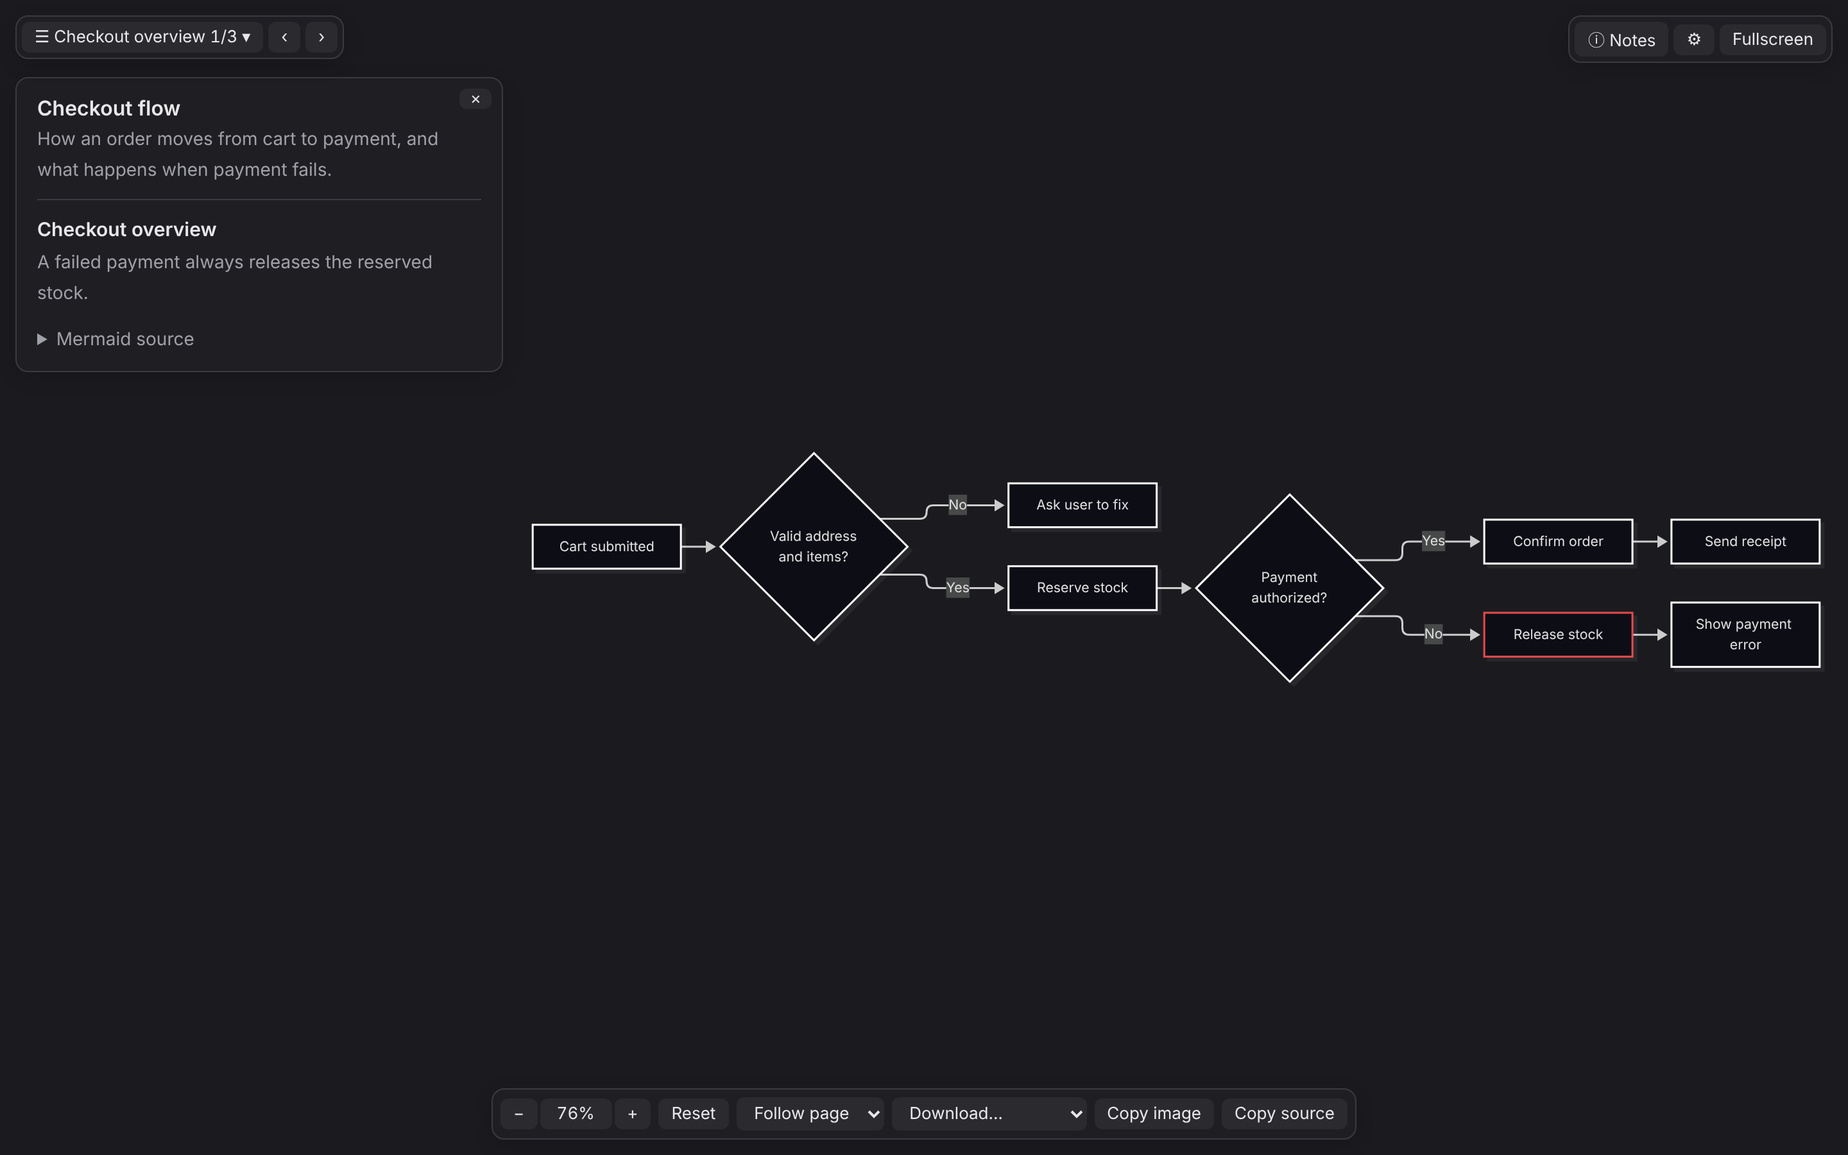
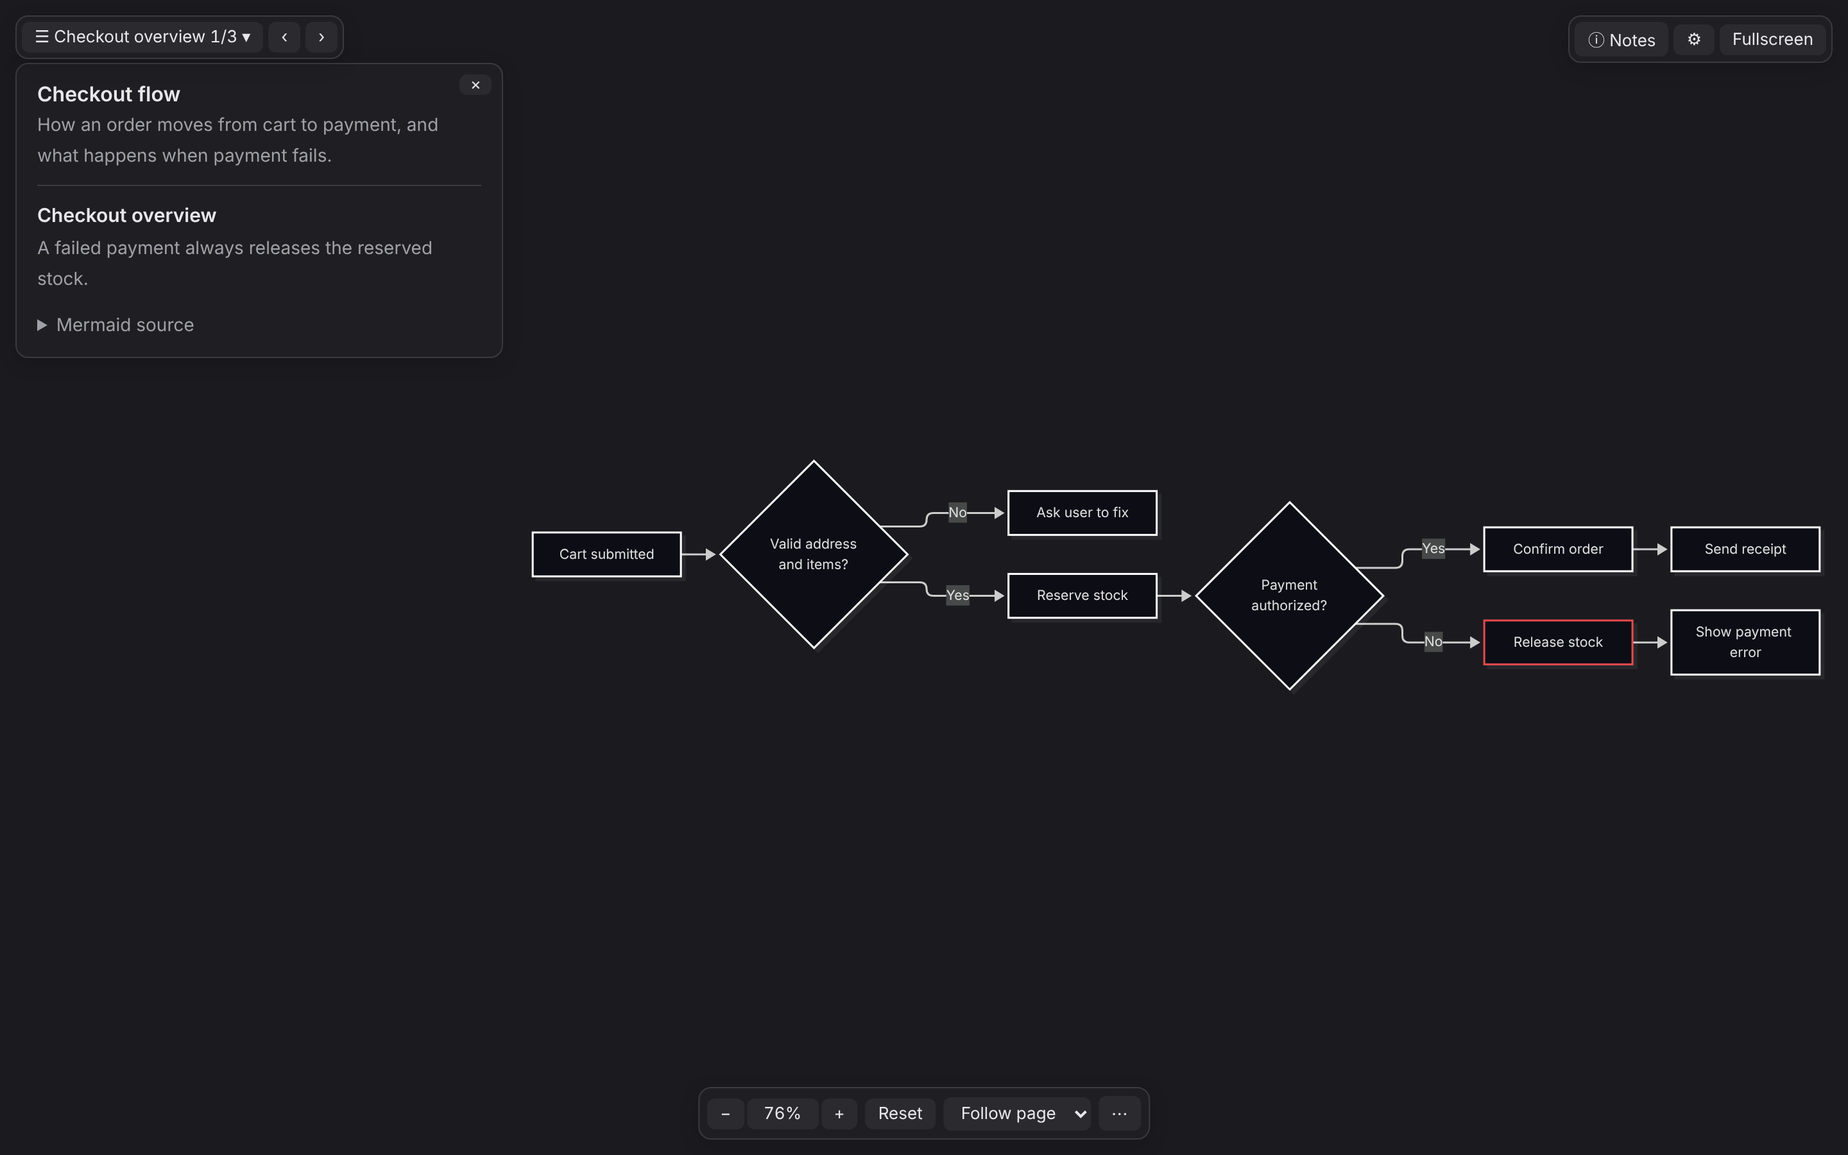
調整下載與複製動作收進工具列的 ⋯ 選單，並修正含 <br> 標籤時的匯出
- 下載 SVG／PNG／JPEG／WebP、複製圖片與複製原始碼改為 ⋯ 選單項目，支援方向鍵
- 操作結果改以提示訊息顯示，同時供螢幕閱讀器讀出
- 從 DOM 序列化 SVG，修正標籤含 <br> 時匯出失敗與 SVG 不是合法 XML
- 更新 README 截圖

Claude-Session: https://claude.ai/code/session_01RE5uL88XU2QJ1ruxZWgEpo

diff --git a/skills/diagram-first/templates/diagram.html b/skills/diagram-first/templates/diagram.html
@@ -23,7 +23,7 @@
   - 左上：目錄（依各圖 <h2> 產生）。兩張圖以上時可用下拉清單、‹ ›、鍵盤 ←／→ 切換，網址同步為 #diagram-N。
   - 右上：說明視窗開關、⚙ 設定（模式、方向、Theme，存在 localStorage）、全螢幕（瀏覽器不支援時不顯示）。
   - 說明視窗：頁面標題、摘要，以及目前這張圖的標題、一句話結論、圖例與原始碼；開關狀態存在 localStorage。
-  - 下方工具列：縮放、重設（符合視窗）、個別方向、下載 SVG／PNG／JPEG／WebP、複製圖片與原始碼。
+  - 下方工具列：縮放、重設（符合視窗）、個別方向；⋯ 選單內有下載 SVG／PNG／JPEG／WebP、複製圖片與原始碼。
   方向只影響 flowchart、state、class、ER、requirement；「自動」依視窗方向，橫向時轉為水平、直向時轉為垂直。
   自動符合大小最多放大到 150%。寬螢幕打開說明視窗時，圖會避開說明視窗；窄螢幕預設收合說明視窗。
   個別方向選單（跟隨頁面／垂直／水平）只在本次瀏覽有效，不存 localStorage。
@@ -38,7 +38,7 @@
 <html lang="{{LANG}}">
 <head>
 <meta charset="utf-8">
-<meta http-equiv="Content-Security-Policy" content="default-src 'none'; script-src 'sha256-+Mn/7qtidVMkAOdqiNkIF4LDsOtl14f1lC/tgwYm66M=' https://cdn.jsdelivr.net/npm/mermaid@12.1.0/; style-src 'unsafe-inline'; img-src data: blob:; base-uri 'none'; form-action 'none'">
+<meta http-equiv="Content-Security-Policy" content="default-src 'none'; script-src 'sha256-JbmZK0CxZw1GLv5vfeWJz6pN2b9pzVoGvX5IbWC0V3g=' https://cdn.jsdelivr.net/npm/mermaid@12.1.0/; style-src 'unsafe-inline'; img-src data: blob:; base-uri 'none'; form-action 'none'">
 <meta name="referrer" content="no-referrer">
 <meta name="viewport" content="width=device-width, initial-scale=1, viewport-fit=cover">
 <meta name="color-scheme" content="light dark">
@@ -104,8 +104,8 @@
   details pre { background: var(--bg); border: 1px solid var(--border); border-radius: 8px; padding: 12px; color: var(--text); max-height: 40vh; overflow: auto; }
   .float, .pop { background: var(--surface); border: 1px solid var(--border); border-radius: 10px; box-shadow: 0 4px 16px rgba(0, 0, 0, .14); }
   .pop[hidden] { display: none; }
-  :where(.toolbar, .float, .controls) :where(button, select) { min-block-size: 24px; min-inline-size: 24px; }
-  @media (pointer: coarse) { :where(.toolbar, .float, .controls) :where(button, select) { min-block-size: 44px; min-inline-size: 44px; } }
+  :where(.toolbar, .float, .controls, .menu) :where(button, select) { min-block-size: 24px; min-inline-size: 24px; }
+  @media (pointer: coarse) { :where(.toolbar, .float, .controls, .menu) :where(button, select) { min-block-size: 44px; min-inline-size: 44px; } }
   :where(.toolbar, .float, .controls, #info) :where(button, select, summary):focus-visible, .canvas:focus-visible { outline: 2px solid var(--text); outline-offset: 2px; }
 
   /* 單圖檢視：一次顯示一張圖並撐滿視窗，其餘介面浮在圖上。程式載入 Mermaid 後才加上 .app；列印時改回逐張排列。 */
@@ -133,10 +133,18 @@
     #nav .toc-btn { min-width: 0; overflow: hidden; text-overflow: ellipsis; white-space: nowrap; font-variant-numeric: tabular-nums; }
     #nav > div, #actions > div { position: relative; min-width: 0; display: flex; }
     /* 彈出面板用 Popover API（頂層、點外面或 Esc 關閉）；位置由程式依觸發按鈕設定，不支援 Popover API 時同樣適用。 */
-    .pop { position: fixed; inset: auto; margin: 0; top: var(--pop-top, 56px); left: var(--pop-left, auto); right: var(--pop-right, auto);
+    .pop { position: fixed; inset: auto; margin: 0; top: var(--pop-top, 56px); left: var(--pop-left, auto); right: var(--pop-right, auto); bottom: var(--pop-bottom, auto);
            z-index: 35; padding: 6px 0; max-height: 70vh; overflow: auto; color: var(--text); }
     #toc-panel { min-width: 240px; max-width: min(360px, calc(100vw - 24px)); }
     #settings { padding: 10px; }
+    .menu { padding: 6px; min-width: 200px; }
+    .menu button { display: block; width: 100%; text-align: start; font: 14px var(--font); color: var(--control-text); background: transparent;
+                   border: 0; border-radius: 6px; padding: 6px 10px; cursor: pointer; }
+    .menu button:hover, .menu button:focus-visible { background: var(--control); }
+    .menu button[hidden] { display: none; }
+    .toast { position: fixed; left: 50%; transform: translateX(-50%); bottom: calc(var(--bottom-h, 52px) + 24px); z-index: 40;
+             margin: 0; padding: 6px 14px; font-size: 13px; }
+    .toast:empty { display: none; }
     .toc ol { list-style: none; margin: 0; padding: 0; }
     .toc a { display: block; padding: 4px 12px; border-left: 2px solid transparent; color: var(--muted); text-decoration: none; font-size: 14px; }
     .toc a:hover { color: var(--text); background: var(--control); }
@@ -199,7 +207,7 @@ const I18N = {
         direction: '方向', vertical: '垂直', horizontal: '水平',
         zoomIn: '放大', zoomOut: '縮小', zoomActual: '原始大小', reset: '重設',
         followPage: '跟隨頁面', fullscreen: '全螢幕', exitFullscreen: '離開全螢幕', toc: '目錄', legend: '圖例',
-        info: '說明', close: '關閉', prev: '上一張', next: '下一張', settings: '設定',
+        info: '說明', close: '關閉', prev: '上一張', next: '下一張', settings: '設定', more: '更多動作', downloadAs: (f) => `下載 ${f}`,
         download: '下載…', transparent: 'PNG（透明背景）', copyImage: '複製圖片', copyFail: '無法複製', exportFail: '匯出失敗',
         loadFail: '無法載入 Mermaid，請確認網路連線後重新整理頁面。', parseFail: '語法錯誤，這張圖無法 render：',
         renderFail: 'Render 失敗：', some: (ok, bad) => `${ok} 張成功、${bad} 張失敗。請把錯誤訊息回報給 Agent。`,
@@ -209,7 +217,7 @@ const I18N = {
         direction: 'Direction', vertical: 'Vertical', horizontal: 'Horizontal',
         zoomIn: 'Zoom in', zoomOut: 'Zoom out', zoomActual: 'Actual size', reset: 'Reset',
         followPage: 'Follow page', fullscreen: 'Fullscreen', exitFullscreen: 'Exit fullscreen', toc: 'Contents', legend: 'Legend',
-        info: 'Notes', close: 'Close', prev: 'Previous', next: 'Next', settings: 'Settings',
+        info: 'Notes', close: 'Close', prev: 'Previous', next: 'Next', settings: 'Settings', more: 'More actions', downloadAs: (f) => `Download ${f}`,
         download: 'Download…', transparent: 'PNG (transparent)', copyImage: 'Copy image', copyFail: 'Copy failed', exportFail: 'Export failed',
         loadFail: 'Could not load Mermaid. Check your network connection and reload the page.', parseFail: 'Syntax error, this diagram could not be rendered:',
         renderFail: 'Render failed:', some: (ok, bad) => `${ok} succeeded, ${bad} failed. Please report the error to the agent.`,
@@ -219,7 +227,7 @@ const I18N = {
         direction: '方向', vertical: '縦', horizontal: '横',
         zoomIn: '拡大', zoomOut: '縮小', zoomActual: '原寸', reset: 'リセット',
         followPage: 'ページに従う', fullscreen: '全画面', exitFullscreen: '全画面を終了', toc: '目次', legend: '凡例',
-        info: '説明', close: '閉じる', prev: '前へ', next: '次へ', settings: '設定',
+        info: '説明', close: '閉じる', prev: '前へ', next: '次へ', settings: '設定', more: 'その他の操作', downloadAs: (f) => `${f} をダウンロード`,
         download: 'ダウンロード…', transparent: 'PNG（透過）', copyImage: '画像をコピー', copyFail: 'コピーできません', exportFail: '書き出しに失敗しました',
         loadFail: 'Mermaid を読み込めません。ネットワーク接続を確認して再読み込みしてください。', parseFail: '構文エラーのため描画できません：',
         renderFail: '描画に失敗しました：', some: (ok, bad) => `${ok} 枚成功、${bad} 枚失敗。エラーをエージェントに報告してください。`,
@@ -544,6 +552,81 @@ function rovingToolbar(bar) {
   return () => sync(null);
 }
 
+// 彈出面板：優先用 Popover API（點外面或 Esc 自動關閉）；不支援時以 hidden 切換並自行處理關閉。
+const nativePopover = Object.hasOwn(HTMLElement.prototype, 'popover');
+const popovers = [];
+function popover(btn, panel, align, onOpen) {
+  btn.setAttribute('aria-expanded', 'false');
+  const place = () => {
+    const r = btn.getBoundingClientRect();
+    if (align === 'up') {
+      panel.style.setProperty('--pop-top', 'auto');
+      panel.style.setProperty('--pop-bottom', `${Math.round(innerHeight - r.top + 8)}px`);
+    } else panel.style.setProperty('--pop-top', `${Math.round(r.bottom + 8)}px`);
+    if (align === 'right' || align === 'up') panel.style.setProperty('--pop-right', `${Math.round(innerWidth - r.right)}px`);
+    else panel.style.setProperty('--pop-left', `${Math.round(r.left)}px`);
+  };
+  let set;
+  if (nativePopover) {
+    panel.setAttribute('popover', 'auto');
+    btn.setAttribute('popovertarget', panel.id);
+    panel.addEventListener('beforetoggle', (e) => { if (e.newState === 'open') place(); });
+    panel.addEventListener('toggle', (e) => {
+      btn.setAttribute('aria-expanded', String(e.newState === 'open'));
+      if (e.newState === 'open') onOpen?.();
+    });
+    set = (v) => {
+      const open = panel.matches(':popover-open');
+      if (v && !open) panel.showPopover();
+      if (!v && open) panel.hidePopover();
+    };
+  } else {
+    panel.hidden = true;
+    set = (v) => {
+      if (v) place();
+      panel.hidden = !v;
+      btn.setAttribute('aria-expanded', String(v));
+      if (v) onOpen?.();
+    };
+    btn.addEventListener('click', () => {
+      const v = panel.hidden;
+      popovers.forEach((p) => p.set(false));
+      set(v);
+    });
+  }
+  const p = { btn, panel, set, isOpen: () => (nativePopover ? panel.matches(':popover-open') : !panel.hidden) };
+  popovers.push(p);
+  return p;
+}
+if (!nativePopover) {
+  document.addEventListener('click', (e) => {
+    popovers.forEach((p) => { if (p.isOpen() && !p.btn.contains(e.target) && !p.panel.contains(e.target)) p.set(false); });
+  });
+}
+
+// 下拉選單：開啟時聚焦第一項，↑／↓／Home／End 移動，Tab 離開時關閉。
+function menuKeys(menu, p) {
+  const items = () => [...menu.querySelectorAll('[role="menuitem"]')].filter((x) => !x.hidden);
+  menu.addEventListener('keydown', (e) => {
+    const list = items();
+    const k = list.indexOf(document.activeElement);
+    const next = { ArrowDown: list[(k + 1) % list.length], ArrowUp: list[(k - 1 + list.length) % list.length],
+                   Home: list[0], End: list[list.length - 1] }[e.key];
+    if (next) { e.preventDefault(); next.focus(); }
+    if (e.key === 'Tab') p.set(false);
+  });
+  return () => items()[0]?.focus();
+}
+
+// 操作結果提示（複製、匯出），同時供螢幕閱讀器讀出。
+const toast = el('p', { class: 'toast float', role: 'status' });
+let toastTimer = 0;
+function notify(text) {
+  toast.textContent = text;
+  clearTimeout(toastTimer);
+  toastTimer = setTimeout(() => { toast.textContent = ''; }, 2000);
+}
+
 const diagrams = [];
 let badCount = 0;
 const sections = [...document.querySelectorAll('section.diagram')];
@@ -590,15 +673,34 @@ for (const [i, section] of sections.entries()) {
   }
   note.append(details);
 
-  const copyBtn = el('button', { type: 'button' }, T.copy);
-  copyBtn.addEventListener('click', async () => {
+  // ⋯ 選單：下載、複製圖片、複製原始碼。
+  const moreBtn = el('button', { type: 'button', 'aria-label': T.more, title: T.more, 'aria-haspopup': 'menu', 'aria-controls': `more-${i + 1}` }, '⋯');
+  const menu = el('div', { class: 'pop menu', id: `more-${i + 1}`, role: 'menu', 'aria-label': T.more });
+  toolbar.append(moreBtn);
+  toolbar.after(menu);
+  let focusFirst = () => {};
+  const more = popover(moreBtn, menu, 'up', () => focusFirst());
+  focusFirst = menuKeys(menu, more);
+  const menuItem = (label, run) => {
+    const b = el('button', { type: 'button', role: 'menuitem', tabindex: '-1' }, label);
+    b.addEventListener('click', async () => {
+      more.set(false);
+      moreBtn.focus();
+      await run();
+    });
+    menu.append(b);
+    return b;
+  };
+  menuItem(T.copy, async () => {
     try {
       await navigator.clipboard.writeText(source);
-      copyBtn.textContent = T.copied;
-      setTimeout(() => { copyBtn.textContent = T.copy; }, 1500);
-    } catch { details.open = true; showInfo(true); }
+      notify(T.copied);
+    } catch {
+      notify(T.copyFail);
+      details.open = true;
+      showInfo(true);
+    }
   });
-  toolbar.append(copyBtn);
   const syncToolbar = rovingToolbar(toolbar);
 
   try {
@@ -614,13 +716,7 @@ for (const [i, section] of sections.entries()) {
 
   const d = { i, section, source, canvas, details, toolbar, ok: false, svg: '', scale: null, baseStyle: null,
               direction: 'page', fit: true, syncToolbar };
-  const downloadSelect = el('select', { 'aria-label': T.download });
-  downloadSelect.append(el('option', { value: '' }, T.download));
-  FORMATS.forEach(([v, label]) => downloadSelect.append(el('option', { value: v }, label || T.transparent)));
-  downloadSelect.addEventListener('change', async () => {
-    const v = downloadSelect.value;
-    downloadSelect.value = '';
-    if (!v) return;
+  const download = async (v) => {
     const name = `diagram-${i + 1}`;
     try {
       if (v === 'svg') saveBlob(new Blob([d.svg], { type: 'image/svg+xml' }), `${name}.svg`);
@@ -629,21 +725,23 @@ for (const [i, section] of sections.entries()) {
         const ext = v === 'jpeg' ? 'jpg' : v === 'png-transparent' ? 'png' : v;
         saveBlob(await exportImage(d, type, v === 'png-transparent'), `${name}.${ext}`);
       }
-    } catch (e) {
-      downloadSelect.options[0].textContent = T.exportFail;
-      setTimeout(() => { downloadSelect.options[0].textContent = T.download; }, 2000);
+    } catch {
+      notify(T.exportFail);
     }
-  });
-  const copyImgBtn = el('button', { type: 'button' }, T.copyImage);
-  copyImgBtn.addEventListener('click', async () => {
+  };
+  const copyImage = async () => {
     try {
       await navigator.clipboard.write([new ClipboardItem({ 'image/png': exportImage(d, 'image/png', false) })]);
-      copyImgBtn.textContent = T.copied;
+      notify(T.copied);
     } catch {
-      copyImgBtn.textContent = T.copyFail;
+      notify(T.copyFail);
     }
-    setTimeout(() => { copyImgBtn.textContent = T.copyImage; }, 1500);
-  });
+  };
+  // 圖片相關項目放在原始碼之前；render 失敗時隱藏。
+  d.imageItems = [...FORMATS.map(([v, label]) => menuItem(T.downloadAs(label || T.transparent), () => download(v))),
+                  menuItem(T.copyImage, copyImage)];
+  menu.prepend(...d.imageItems);
+  d.imageItems.forEach((b) => { b.hidden = true; });
   const zoom = el('div', { class: 'zoom', role: 'group' });
   const outBtn = el('button', { type: 'button', 'aria-label': T.zoomOut, title: T.zoomOut }, '−');
   d.level = el('button', { type: 'button', class: 'level', title: T.zoomActual }, '');
@@ -667,7 +765,6 @@ for (const [i, section] of sections.entries()) {
     });
     d.buttons.push(dirSelect);
   }
-  d.buttons.push(downloadSelect, copyImgBtn);
   bindGestures(d);
   diagrams.push(d);
 }
@@ -690,10 +787,12 @@ async function renderOne(d) {
       if (source === d.source) throw e;
       ({ svg } = await mermaid.render(`diagram-${d.i}-${n}-src`, d.source));
     }
-    d.svg = svg;
     d.canvas.innerHTML = svg;
+    // 從 DOM 序列化成合法的 XML：Mermaid 的 HTML 標籤（例如 <br>）不一定是自我封閉，直接當 XML 解析會失敗。
+    d.svg = new XMLSerializer().serializeToString(d.canvas.querySelector('svg'));
     d.baseStyle = d.canvas.querySelector('svg')?.getAttribute('style') ?? null;
     if (!d.ok) { d.toolbar.prepend(...d.buttons); d.syncToolbar(); }
+    d.imageItems.forEach((b) => { b.hidden = false; });
     d.ok = true;
     if (d.fit) fitScreen(d);
     else setZoom(d, d.scale);
@@ -702,6 +801,7 @@ async function renderOne(d) {
     box.append(el('pre', {}, String(e.message || e)));
     d.canvas.replaceChildren(box);
     d.buttons.forEach((b) => b.remove());
+    d.imageItems.forEach((b) => { b.hidden = true; });
     d.syncToolbar();
     d.ok = false;
     d.details.open = true;
@@ -715,51 +815,6 @@ async function renderAll(filter = null) {
   }
 }
 const followsPage = (d) => d.direction === 'page';
-
-// 彈出面板：優先用 Popover API（點外面或 Esc 自動關閉）；不支援時以 hidden 切換並自行處理關閉。
-const nativePopover = Object.hasOwn(HTMLElement.prototype, 'popover');
-const popovers = [];
-function popover(btn, panel, align) {
-  btn.setAttribute('aria-expanded', 'false');
-  const place = () => {
-    const r = btn.getBoundingClientRect();
-    panel.style.setProperty('--pop-top', `${Math.round(r.bottom + 8)}px`);
-    if (align === 'right') panel.style.setProperty('--pop-right', `${Math.round(innerWidth - r.right)}px`);
-    else panel.style.setProperty('--pop-left', `${Math.round(r.left)}px`);
-  };
-  let set;
-  if (nativePopover) {
-    panel.setAttribute('popover', 'auto');
-    btn.setAttribute('popovertarget', panel.id);
-    panel.addEventListener('beforetoggle', (e) => { if (e.newState === 'open') place(); });
-    panel.addEventListener('toggle', (e) => btn.setAttribute('aria-expanded', String(e.newState === 'open')));
-    set = (v) => {
-      const open = panel.matches(':popover-open');
-      if (v && !open) panel.showPopover();
-      if (!v && open) panel.hidePopover();
-    };
-  } else {
-    panel.hidden = true;
-    set = (v) => {
-      if (v) place();
-      panel.hidden = !v;
-      btn.setAttribute('aria-expanded', String(v));
-    };
-    btn.addEventListener('click', () => {
-      const v = panel.hidden;
-      popovers.forEach((p) => p.set(false));
-      set(v);
-    });
-  }
-  const p = { btn, panel, set, isOpen: () => (nativePopover ? panel.matches(':popover-open') : !panel.hidden) };
-  popovers.push(p);
-  return p;
-}
-if (!nativePopover) {
-  document.addEventListener('click', (e) => {
-    popovers.forEach((p) => { if (p.isOpen() && !p.btn.contains(e.target) && !p.panel.contains(e.target)) p.set(false); });
-  });
-}
 
 // 右上角：說明、設定、全螢幕。
 const actions = el('div', { id: 'actions', class: 'float' });
@@ -872,7 +927,7 @@ if (multi) {
 } else {
   tocBtn.disabled = true;
 }
-document.body.append(nav, actions);
+document.body.append(nav, actions, toast);
 
 // 切換到第 k 張圖：顯示該圖、把它的說明移入說明視窗，並同步網址的 #id。
 function show(k, updateHash = true) {

diff --git a/CHANGELOG.md b/CHANGELOG.md
@@ -18,8 +18,11 @@ and this project adheres to [Semantic Versioning](https://semver.org/).
 - Change the "Auto" direction to follow the window: horizontal in landscape, vertical in portrait
 - Cap auto-fit at 150%, keep diagrams clear of the notes window on wide screens, and collapse the notes window by default on narrow screens
 - Use the Popover API for the contents and settings panels, and make each toolbar a single Tab stop navigated with arrow keys
+- Move Download, Copy image and Copy source into the toolbar's ⋯ menu, with results shown as a toast
 ### Removed
 - Remove the width switch (Wide / Standard)
+### Fixed
+- Fix PNG/JPEG/WebP export failing, and downloaded SVGs being invalid XML, when labels contain `<br>`
 
 ## [1.2.0] - 2026-10-12
 ### Added

diff --git a/CHANGELOG.zh-tw.md b/CHANGELOG.zh-tw.md
@@ -18,8 +18,11 @@
 - 調整方向「自動」為依視窗方向：橫向轉為水平、直向轉為垂直
 - 調整自動符合大小最多放大到 150%，寬螢幕時避開說明視窗，窄螢幕預設收合說明視窗
 - 調整目錄與設定面板改用 Popover API，工具列改為單一 Tab 停留點並以方向鍵移動
+- 調整下載、複製圖片與複製原始碼收進工具列的 ⋯ 選單，結果以提示訊息顯示
 ### Removed
 - 移除寬度切換（寬版／標準）
+### Fixed
+- 修正標籤含 `<br>` 時無法匯出 PNG／JPEG／WebP，且下載的 SVG 不是合法 XML
 
 ## [1.2.0] - 2026-10-12
 ### Added
